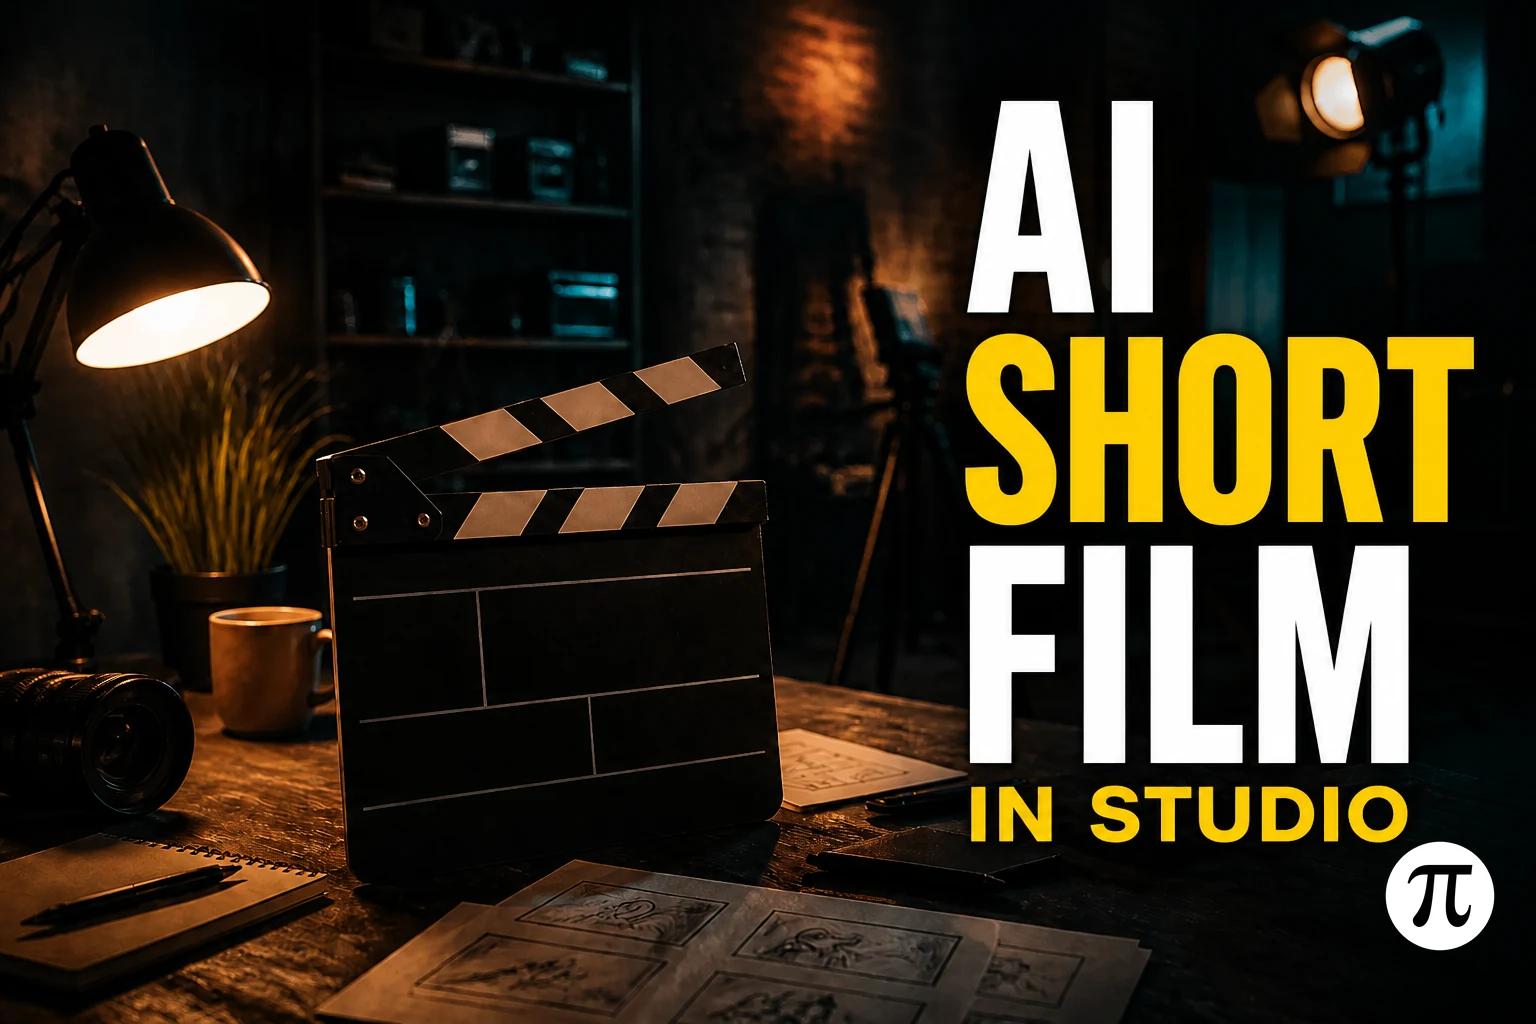
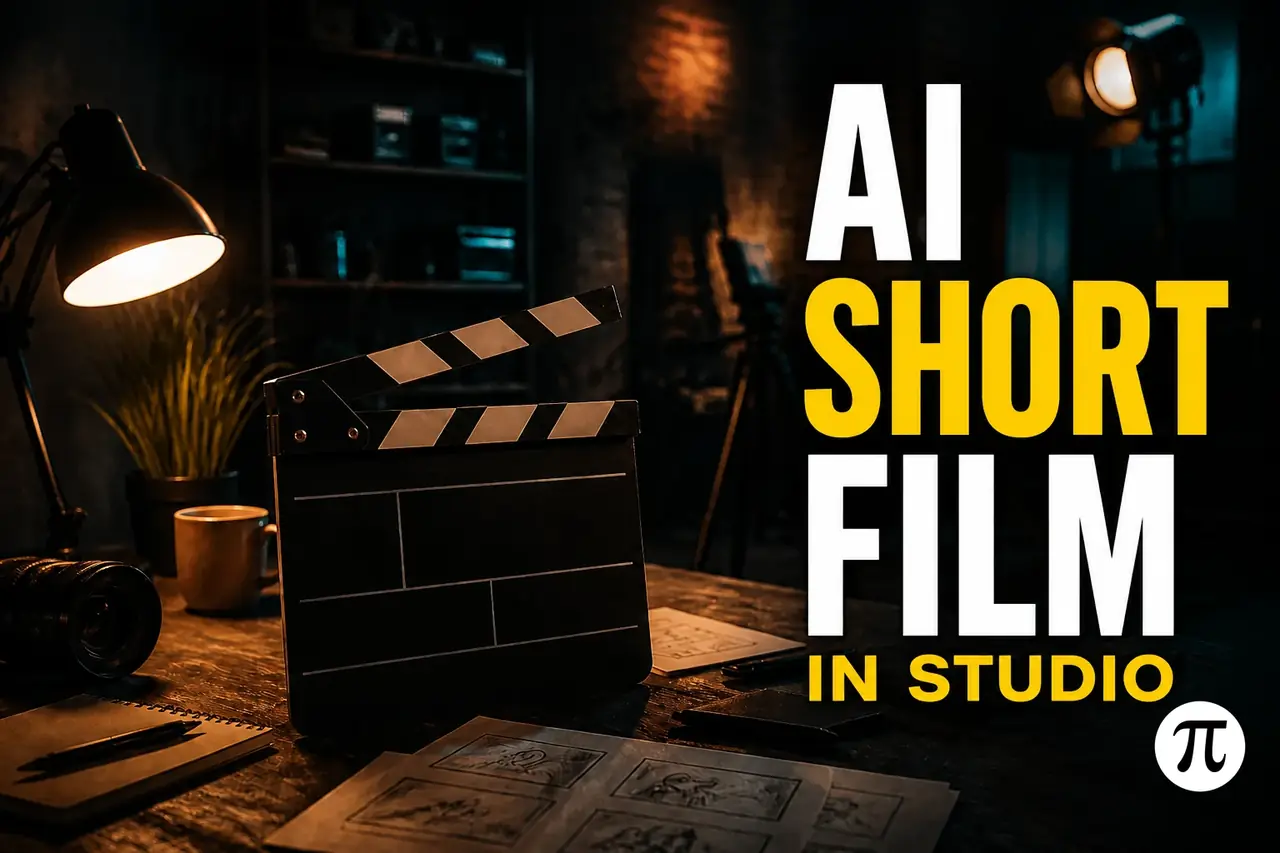
perf(studio): slim Network/Academy heroes and cover loads
Serve display-sized hero WebPs (~42–72KB) instead of 4k backgrounds,
prefer Bunny Optimizer course cards over static full covers, and shrink
Academy player covers to 1280/q82.

Changed region(s): [[0.8438, 0.762, 0.875, 0.823]]

diff --git a/src/studio/components/StudioAcademyPane.tsx b/src/studio/components/StudioAcademyPane.tsx
@@ -55,11 +55,27 @@ function localCoverUrl(slug: string): string | undefined {
   return `/academy/${slug}.webp`;
 }
 
+/** Prefer Bunny Optimizer URL; static /academy/*.webp is fallback only. */
 function courseBannerUrl(course: {
   slug: string;
   coverUrl?: string;
 }): string | undefined {
-  return localCoverUrl(course.slug) || course.coverUrl;
+  return course.coverUrl || localCoverUrl(course.slug);
+}
+
+const ACADEMY_HERO_BANNER = "/academy/academy-hero.webp";
+
+function usePreloadAcademyHero() {
+  useEffect(() => {
+    const link = document.createElement("link");
+    link.rel = "preload";
+    link.as = "image";
+    link.href = ACADEMY_HERO_BANNER;
+    document.head.appendChild(link);
+    return () => {
+      link.remove();
+    };
+  }, []);
 }
 
 function useNowTick(intervalMs = 1_000) {
@@ -480,6 +496,7 @@ export function StudioAcademyPane({
 }) {
   const price = creditPriceCents ?? DEFAULT_CREDIT_PRICE_CENTS;
   const academy = useStudioAcademy();
+  usePreloadAcademyHero();
   const now = useNowTick();
   const { isMobile } = useMobileLayout();
   const catalog = useQuery(api.academy.listPublishedCourses, {});
@@ -762,7 +779,7 @@ export function StudioAcademyPane({
               </div>
             ) : (
               <ul className="public-offers-grid studio-academy-grid">
-                {list.map((course) => {
+                {list.map((course, index) => {
                   const banner = courseBannerUrl(course);
                   const comingSoon = Boolean(course.comingSoon);
                   const compareAt = course.compareAtCredits;
@@ -802,8 +819,9 @@ export function StudioAcademyPane({
                                 <img
                                   src={banner}
                                   alt=""
-                                  loading="lazy"
+                                  loading={index < 3 ? "eager" : "lazy"}
                                   decoding="async"
+                                  fetchPriority={index === 0 ? "high" : undefined}
                                   onLoad={onLoad}
                                   onError={onError}
                                 />

diff --git a/convex/lib/bunny.ts b/convex/lib/bunny.ts
@@ -255,10 +255,13 @@ export const PREVIEW_TRANSFORM: BunnyImageTransform = {
   format: "webp",
 };
 
-/** Academy lesson / course hero covers in the player — sharp, near-full HD. */
+/**
+ * Academy lesson / course covers in the in-app player.
+ * Sized for pane width (not full 4k origin) so covers paint fast.
+ */
 export const ACADEMY_COVER_TRANSFORM: BunnyImageTransform = {
-  width: 1920,
-  quality: 92,
+  width: 1280,
+  quality: 82,
   format: "webp",
 };
 

diff --git a/convex/academy.ts b/convex/academy.ts
@@ -256,7 +256,7 @@ export const listMyCourses = authedQuery({
         slug: course.slug,
         blurb: blurbFromMarkdown(course.descriptionMarkdown),
         ...pricingFieldsForCourse(course),
-        coverUrl: await coverUrlFor(course.coverBunnyPath),
+        coverUrl: await coverUrlFor(course.coverBunnyPath, CN_CARD_TRANSFORM),
         owned: true,
         lessonCount: lessons.length,
         sortOrder: course.sortOrder,

diff --git a/src/studio/components/StudioShell.tsx b/src/studio/components/StudioShell.tsx
@@ -21323,7 +21323,7 @@ export function StudioShell({
           isolation: isolate;
         }
         .studio-academy-hero-bg.public-offers-hero-bg {
-          background-image: url("/academy/academy-hero-4k.webp");
+          background-image: url("/academy/academy-hero.webp");
           opacity: 0.62;
         }
         [data-appearance="dark"] .studio-academy-hero-bg.public-offers-hero-bg {

diff --git a/src/studio/components/PublicOffersPages.tsx b/src/studio/components/PublicOffersPages.tsx
@@ -671,7 +671,7 @@ function OffersCatalogInner() {
     const link = document.createElement("link");
     link.rel = "preload";
     link.as = "image";
-    link.href = "/branding/creative-network-banner-4k.webp";
+    link.href = "/branding/creative-network-banner.webp";
     document.head.appendChild(link);
     return () => {
       link.remove();

diff --git a/src/studio/components/StudioCreativeNetworkPane.tsx b/src/studio/components/StudioCreativeNetworkPane.tsx
@@ -123,7 +123,8 @@ function OfferStatsChips({
   );
 }
 
-const CN_HERO_BANNER = "/branding/creative-network-banner-4k.webp";
+/** Display-sized hero (not 4k) — ~1600w WebP for fast catalog paint. */
+const CN_HERO_BANNER = "/branding/creative-network-banner.webp";
 
 function usePreloadCreativeNetworkHero() {
   useEffect(() => {

diff --git a/src/studio/components/public-offers.css b/src/studio/components/public-offers.css
@@ -817,7 +817,7 @@
   inset: 0;
   z-index: 0;
   pointer-events: none;
-  background-image: url("/branding/creative-network-banner-4k.webp");
+  background-image: url("/branding/creative-network-banner.webp");
   background-size: cover;
   background-position: center;
   background-repeat: no-repeat;
